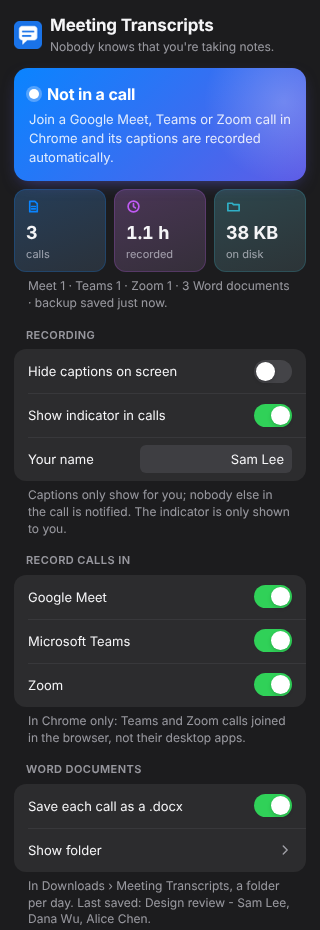
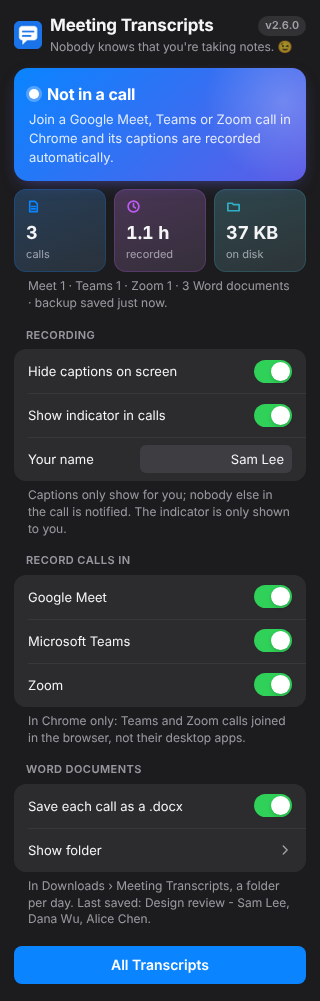
Popup: wink on the tagline, version beside the name so the tagline fits on one line

Changed region(s): [[0.0312, 0.0, 0.9688, 0.9978]]

diff --git a/popup/popup.css b/popup/popup.css
@@ -42,6 +42,8 @@ button { font: inherit; cursor: pointer; -webkit-tap-highlight-color: transparen
 header { display: flex; align-items: center; gap: 0.5rem; margin-bottom: 0.75rem; }
 header img { width: 1.75rem; height: 1.75rem; }
 h1 { margin: 0; font-size: 1.0625rem; font-weight: 700; letter-spacing: -0.012em; }
+.titles { flex: 1; min-width: 0; }
+.title-row { display: flex; align-items: center; gap: 0.5rem; }
 .tagline { margin: 0.0625rem 0 0; font-size: 0.75rem; color: var(--secondary); letter-spacing: -0.003em; }
 .version { margin-left: auto; padding: 0.125rem 0.4375rem; border-radius: 999px; background: var(--fill); color: var(--secondary);
   font-size: 0.6875rem; font-weight: 600; font-variant-numeric: tabular-nums; user-select: all; }

diff --git a/popup/popup.html b/popup/popup.html
@@ -7,11 +7,13 @@
 <body>
   <header>
     <img src="../icons/icon32.png" alt="">
-    <div>
-      <h1>Meeting Transcripts</h1>
-      <p class="tagline">Nobody knows that you're taking notes.</p>
+    <div class="titles">
+      <div class="title-row">
+        <h1>Meeting Transcripts</h1>
+        <span class="version" id="version" title="Installed version"></span>
+      </div>
+      <p class="tagline">Nobody knows that you're taking notes. 😉</p>
     </div>
-    <span class="version" id="version" title="Installed version"></span>
   </header>
 
   <section id="status" class="hero" data-tone="idle">

diff --git a/CHANGELOG.md b/CHANGELOG.md
@@ -15,7 +15,7 @@ it's pushed to `main` with the matching `version` in `manifest.json`.
   from the call.
 - **Show or hide captions from the call.** The in-call pill has a *Show captions* /
   *Hide captions* button, the same switch as in the popup.
-- **The popup shows the installed version** in its top-right corner.
+- **The popup shows the installed version** in its top-right corner, and the tagline gets a 😉.
 - **Copy a report** now also describes the layout around the captions (sizes and
   structure, never what was said), to fix this quickly if a call page lays out
   differently.
